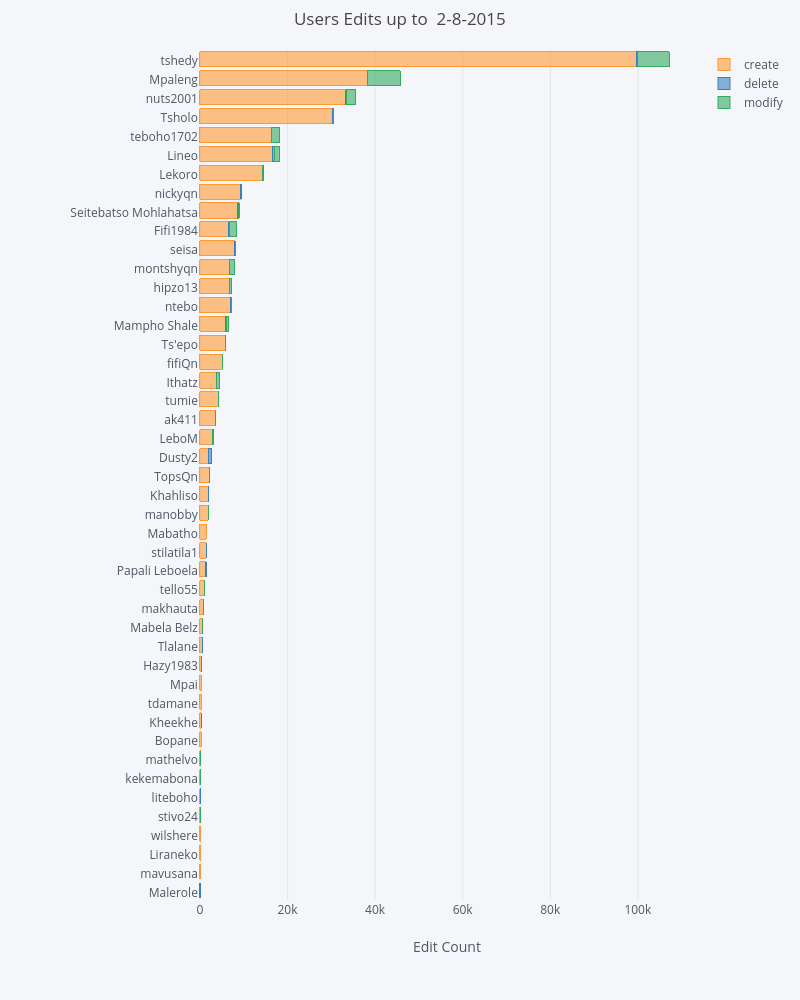
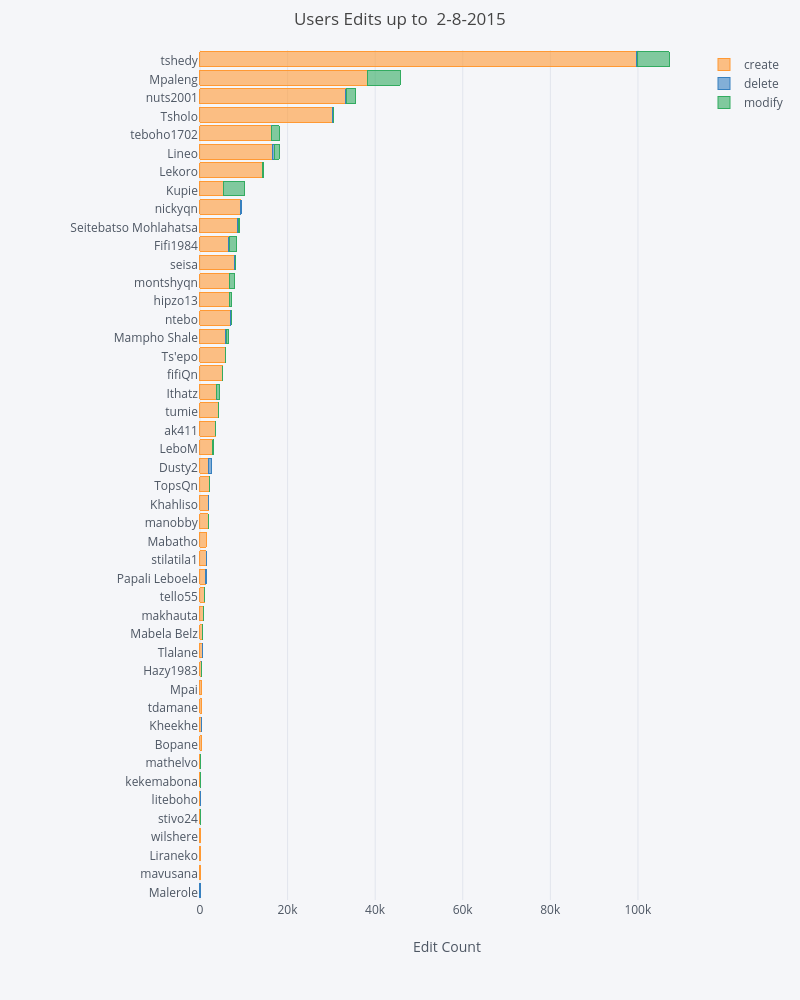
updated usernames

Changed region(s): [[0.0938, 0.093, 0.4375, 0.868]]

diff --git a/index.html b/index.html
@@ -124,6 +124,14 @@
     </tr>
     <tr>
       <th>7</th>
+      <td>Kupie</td>
+      <td>5431</td>
+      <td>7</td>
+      <td>4809</td>
+      <td>10247</td>
+    </tr>
+    <tr>
+      <th>8</th>
       <td>nickyqn</td>
       <td>9332</td>
       <td>37</td>
@@ -131,7 +139,7 @@
       <td>9369</td>
     </tr>
     <tr>
-      <th>8</th>
+      <th>9</th>
       <td>Seitebatso Mohlahatsa</td>
       <td>8570</td>
       <td>224</td>
@@ -139,7 +147,7 @@
       <td>8951</td>
     </tr>
     <tr>
-      <th>9</th>
+      <th>10</th>
       <td>Fifi1984</td>
       <td>6596</td>
       <td>146</td>
@@ -147,7 +155,7 @@
       <td>8367</td>
     </tr>
     <tr>
-      <th>10</th>
+      <th>11</th>
       <td>seisa</td>
       <td>7979</td>
       <td>21</td>
@@ -155,7 +163,7 @@
       <td>8003</td>
     </tr>
     <tr>
-      <th>11</th>
+      <th>12</th>
       <td>montshyqn</td>
       <td>6645</td>
       <td>3</td>
@@ -163,7 +171,7 @@
       <td>7823</td>
     </tr>
     <tr>
-      <th>12</th>
+      <th>13</th>
       <td>hipzo13</td>
       <td>6701</td>
       <td>124</td>
@@ -171,7 +179,7 @@
       <td>7249</td>
     </tr>
     <tr>
-      <th>13</th>
+      <th>14</th>
       <td>ntebo</td>
       <td>6880</td>
       <td>213</td>
@@ -179,7 +187,7 @@
       <td>7094</td>
     </tr>
     <tr>
-      <th>14</th>
+      <th>15</th>
       <td>Mampho Shale</td>
       <td>5836</td>
       <td>126</td>
@@ -187,7 +195,7 @@
       <td>6422</td>
     </tr>
     <tr>
-      <th>15</th>
+      <th>16</th>
       <td>Ts'epo</td>
       <td>5719</td>
       <td>61</td>
@@ -195,7 +203,7 @@
       <td>5802</td>
     </tr>
     <tr>
-      <th>16</th>
+      <th>17</th>
       <td>fifiQn</td>
       <td>5201</td>
       <td>34</td>
@@ -203,7 +211,7 @@
       <td>5249</td>
     </tr>
     <tr>
-      <th>17</th>
+      <th>18</th>
       <td>Ithatz</td>
       <td>3740</td>
       <td>142</td>
@@ -211,7 +219,7 @@
       <td>4494</td>
     </tr>
     <tr>
-      <th>18</th>
+      <th>19</th>
       <td>tumie</td>
       <td>4183</td>
       <td>54</td>
@@ -219,7 +227,7 @@
       <td>4251</td>
     </tr>
     <tr>
-      <th>19</th>
+      <th>20</th>
       <td>ak411</td>
       <td>3637</td>
       <td>0</td>
@@ -227,7 +235,7 @@
       <td>3645</td>
     </tr>
     <tr>
-      <th>20</th>
+      <th>21</th>
       <td>LeboM</td>
       <td>2908</td>
       <td>15</td>
@@ -235,7 +243,7 @@
       <td>3174</td>
     </tr>
     <tr>
-      <th>21</th>
+      <th>22</th>
       <td>Dusty2</td>
       <td>1873</td>
       <td>825</td>
@@ -243,7 +251,7 @@
       <td>2698</td>
     </tr>
     <tr>
-      <th>22</th>
+      <th>23</th>
       <td>TopsQn</td>
       <td>2186</td>
       <td>8</td>
@@ -251,7 +259,7 @@
       <td>2220</td>
     </tr>
     <tr>
-      <th>23</th>
+      <th>24</th>
       <td>Khahliso</td>
       <td>2005</td>
       <td>9</td>
@@ -259,7 +267,7 @@
       <td>2014</td>
     </tr>
     <tr>
-      <th>24</th>
+      <th>25</th>
       <td>manobby</td>
       <td>1839</td>
       <td>8</td>
@@ -267,7 +275,7 @@
       <td>1859</td>
     </tr>
     <tr>
-      <th>25</th>
+      <th>26</th>
       <td>Mabatho</td>
       <td>1428</td>
       <td>0</td>
@@ -275,7 +283,7 @@
       <td>1428</td>
     </tr>
     <tr>
-      <th>26</th>
+      <th>27</th>
       <td>stilatila1</td>
       <td>1388</td>
       <td>25</td>
@@ -283,7 +291,7 @@
       <td>1413</td>
     </tr>
     <tr>
-      <th>27</th>
+      <th>28</th>
       <td>Papali Leboela</td>
       <td>1352</td>
       <td>43</td>
@@ -291,7 +299,7 @@
       <td>1395</td>
     </tr>
     <tr>
-      <th>28</th>
+      <th>29</th>
       <td>tello55</td>
       <td>1017</td>
       <td>5</td>
@@ -299,7 +307,7 @@
       <td>1025</td>
     </tr>
     <tr>
-      <th>29</th>
+      <th>30</th>
       <td>makhauta</td>
       <td>700</td>
       <td>23</td>
@@ -307,7 +315,7 @@
       <td>727</td>
     </tr>
     <tr>
-      <th>30</th>
+      <th>31</th>
       <td>Mabela Belz</td>
       <td>587</td>
       <td>0</td>
@@ -315,7 +323,7 @@
       <td>642</td>
     </tr>
     <tr>
-      <th>31</th>
+      <th>32</th>
       <td>Tlalane</td>
       <td>625</td>
       <td>3</td>
@@ -323,7 +331,7 @@
       <td>628</td>
     </tr>
     <tr>
-      <th>32</th>
+      <th>33</th>
       <td>Hazy1983</td>
       <td>401</td>
       <td>27</td>
@@ -331,7 +339,7 @@
       <td>442</td>
     </tr>
     <tr>
-      <th>33</th>
+      <th>34</th>
       <td>Mpai</td>
       <td>349</td>
       <td>0</td>
@@ -339,7 +347,7 @@
       <td>349</td>
     </tr>
     <tr>
-      <th>34</th>
+      <th>35</th>
       <td>tdamane</td>
       <td>301</td>
       <td>0</td>
@@ -347,7 +355,7 @@
       <td>301</td>
     </tr>
     <tr>
-      <th>35</th>
+      <th>36</th>
       <td>Kheekhe</td>
       <td>290</td>
       <td>3</td>
@@ -355,7 +363,7 @@
       <td>293</td>
     </tr>
     <tr>
-      <th>36</th>
+      <th>37</th>
       <td>Bopane</td>
       <td>287</td>
       <td>0</td>
@@ -363,7 +371,7 @@
       <td>287</td>
     </tr>
     <tr>
-      <th>37</th>
+      <th>38</th>
       <td>mathelvo</td>
       <td>181</td>
       <td>0</td>
@@ -371,7 +379,7 @@
       <td>186</td>
     </tr>
     <tr>
-      <th>38</th>
+      <th>39</th>
       <td>kekemabona</td>
       <td>171</td>
       <td>0</td>
@@ -379,7 +387,7 @@
       <td>182</td>
     </tr>
     <tr>
-      <th>39</th>
+      <th>40</th>
       <td>liteboho</td>
       <td>95</td>
       <td>5</td>
@@ -387,7 +395,7 @@
       <td>100</td>
     </tr>
     <tr>
-      <th>40</th>
+      <th>41</th>
       <td>stivo24</td>
       <td>74</td>
       <td>0</td>
@@ -395,7 +403,7 @@
       <td>75</td>
     </tr>
     <tr>
-      <th>41</th>
+      <th>42</th>
       <td>wilshere</td>
       <td>73</td>
       <td>0</td>
@@ -403,7 +411,7 @@
       <td>73</td>
     </tr>
     <tr>
-      <th>42</th>
+      <th>43</th>
       <td>Liraneko</td>
       <td>38</td>
       <td>0</td>
@@ -411,7 +419,7 @@
       <td>38</td>
     </tr>
     <tr>
-      <th>43</th>
+      <th>44</th>
       <td>mavusana</td>
       <td>21</td>
       <td>0</td>
@@ -419,7 +427,7 @@
       <td>21</td>
     </tr>
     <tr>
-      <th>44</th>
+      <th>45</th>
       <td>Malerole</td>
       <td>0</td>
       <td>4</td>
